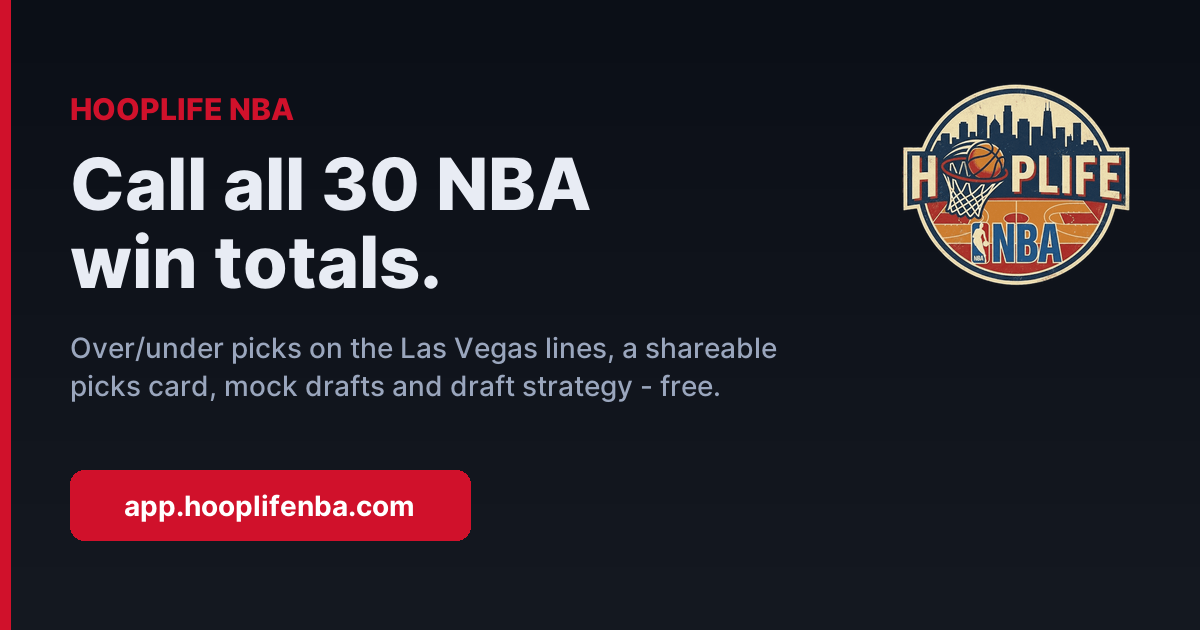
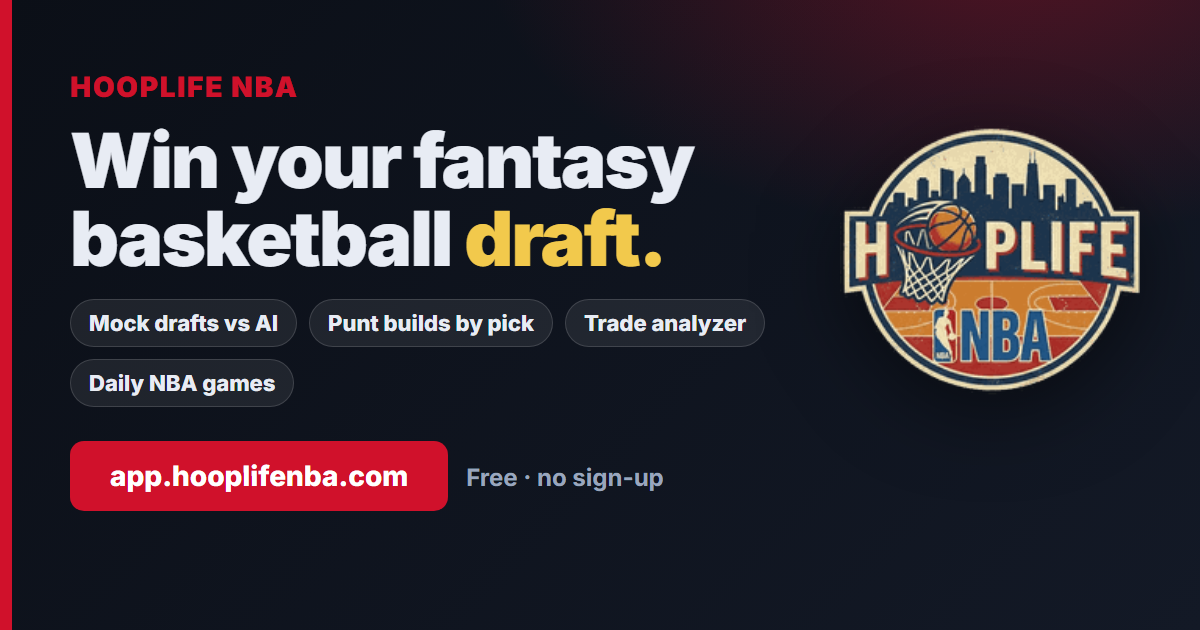
feat(seo): paylasim onizlemesi fantasy oyuncularina yonelik
'Call all 30 NBA win totals' (Las Vegas) yerine 'Win your fantasy
basketball draft' + mock draft, punt build, trade analyzer, gunluk oyunlar.
Gorsel adresine surum eklendi ki WhatsApp/X eski onizlemeyi tazelesin.

Changed region(s): [[0.0617, 0.1206, 0.6475, 0.6333], [0.555, 0.0, 1.0, 0.6333], [0.0308, 0.6937, 0.555, 0.8746]]

diff --git a/web/templates/base.html b/web/templates/base.html
@@ -15,13 +15,13 @@
   <meta property="og:title" content="{{ page_title|trim }}">
   <meta property="og:description" content="{{ page_desc|trim }}">
   <meta property="og:url" content="{{ site_url }}{{ request.url.path }}">
-  <meta property="og:image" content="{{ site_url }}/static/img/social.png">
+  <meta property="og:image" content="{{ site_url }}/static/img/social.png?v=2">
   <meta property="og:image:width" content="1200">
   <meta property="og:image:height" content="630">
   <meta name="twitter:card" content="summary_large_image">
   <meta name="twitter:title" content="{{ page_title|trim }}">
   <meta name="twitter:description" content="{{ page_desc|trim }}">
-  <meta name="twitter:image" content="{{ site_url }}/static/img/social.png">
+  <meta name="twitter:image" content="{{ site_url }}/static/img/social.png?v=2">
   <link rel="icon" href="/static/img/logo.png">
   <link rel="apple-touch-icon" href="/static/img/logo.png">
   <link rel="preconnect" href="https://fonts.googleapis.com">
